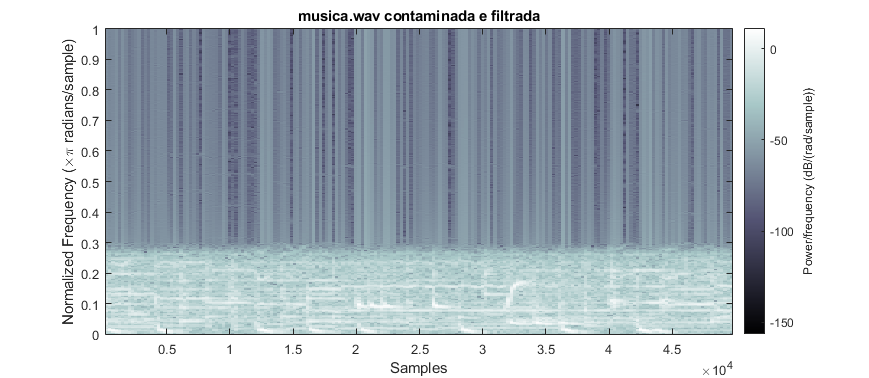
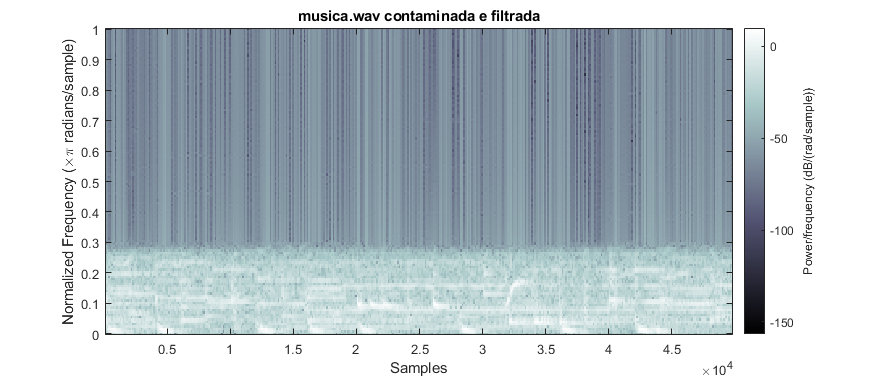
Add files via upload

diff --git a/questao3/questao3.m b/questao3/questao3.m
@@ -78,7 +78,7 @@ audiowrite('musica_contaminada_filtrada.wav',y1,FS);
 audiowrite('voz_contaminada_filtrada.wav',y2,FS);
 
 % Espectogramas
-N = 512;
+N = 256;
 window = hamming(N);
 Noverlap = N/2;
 figure('units', 'centimeters', 'position', [2, 2, 23, 10])
